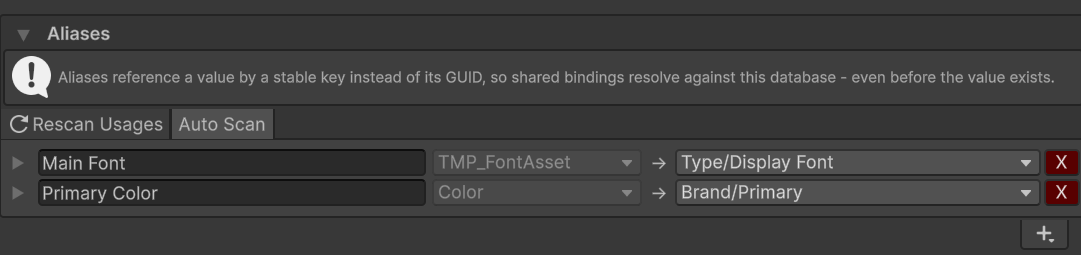
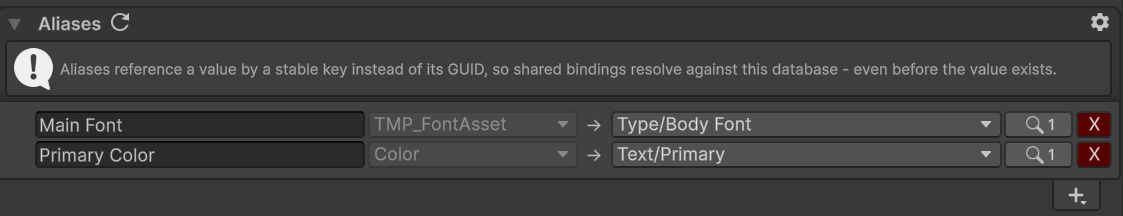
v1.2.3

diff --git a/Documentation/Aliases.md b/Documentation/Aliases.md
@@ -11,6 +11,7 @@ Aliases let a [`ThemeValue<T>`](ScriptingAPI.md#themevalue-and-value-types) refe
 - [Why Aliases](#why-aliases)
 - [Referencing a Value by Key](#referencing-a-value-by-key)
 - [The Aliases Section](#the-aliases-section)
+  - [Usage View Toggle](#usage-view-toggle)
   - [Usage Scanning](#usage-scanning)
   - [Missing Keys](#missing-keys)
   - [Mapping and Unmapped Aliases](#mapping-and-unmapped-aliases)
@@ -44,8 +45,13 @@ Every [`ThemeValue<T>`](ScriptingAPI.md#themevalue-and-value-types) field uses t
 Aliases are managed from the **Aliases** foldout of the [`ThemeDatabase`](ScriptingAPI.md#themedatabase-runtime-api) editor, available from every entry point ([asset inspector](ThemeDatabase.md#editor-entry-points), `Window > derHugo > Themes`, and `Edit > Project Settings > derHugo > Themes`), below **Constant Values** and **Themes**. The section header carries an **issues badge** (`N issues`) whenever there are unresolved entries.
 
 [![][1]][1]
+Each alias row lays out like a [value entry](ThemeDatabase.md#value-usages): the **key**, the **expected type**, a remap arrow, the **target-value** mapping dropdown, a **search-icon usage toggle**, and a delete (`X`) or register (`+`) button. The usage toggle occupies the same column and uses the same appearance and interaction as the value rows.
 
-Each alias row lays out like a [value entry](ThemeDatabase.md#inspector-workflow): an optional **used-by** foldout, the **key**, the **expected type**, a remap arrow, the **target-value** mapping dropdown, and a delete (`X`).
+### Usage View Toggle
+
+Click the **search icon and count** to show or hide the alias's consumer links beneath the row. Counts above 99 display as **`99+`**, with the exact count in the tooltip. When no usages are discovered, the button is disabled and shows only the icon; an open list closes automatically when its last usage disappears. The target-value dropdown chooses which definition the alias maps to independently of the usage toggle.
+
+An alias's count includes references to **that key**. The mapped [value's usage view](ThemeDatabase.md#value-usages) also includes direct references and consumers of any other aliases mapped to the same definition. Remapping an alias updates the affected value counts without another asset scan.
 
 ### Usage Scanning
 
@@ -53,9 +59,12 @@ Each alias row lays out like a [value entry](ThemeDatabase.md#inspector-workflow
 
 - the enabled **Build Settings** scenes and, when the Addressables package is installed, the **Addressable** scenes
 - every currently **open scene** and the current **prefab stage**
+- **Player Settings preloaded assets**
 - and the recursive **prefab / ScriptableObject dependency closure** of all of the above.
 
-The scan is **non-destructive** - closed scenes are opened and closed again without ever saving, so it leaves the project (and your open scenes) exactly as it found them. Expand a row's **used-by** handle to list the consumer sites; a site links to the live object when its scene or prefab is open, otherwise it pings the containing asset. The site label is condensed to the asset name, with the full path on its tooltip.
+The scan is **non-destructive** - closed scenes are opened and closed again without ever saving. Use the row's **search-icon usage toggle** to list its consumers. A link selects and pings the component when its scene or prefab stage is open; otherwise it pings the containing asset. Closed-asset labels use the asset name, while open scenes/prefabs show the object path and component. Hover over a link for the full asset path and field location.
+
+Inherited prefab bindings are reported at their source, with genuine instance overrides recorded separately. The count represents discovered referencing fields, not every runtime prefab instance. The scan also feeds [value usages](ThemeDatabase.md#value-usages) and [Validation](ProjectSettings.md#issues-list), including GUID references and themed floats; the Aliases list shows the key-based subset.
 
 ### Missing Keys
 
@@ -72,7 +81,11 @@ An **unmapped** alias - one with no target, or whose target definition was delet
 
 ### Automatic Rescan
 
-**Auto Scan** keeps the list current automatically when scenes, prefabs, bindings, or the build scene list change, and after each recompile. To stay cheap it only runs while the Aliases list is actually on screen, and it pauses during play mode, compilation, and test runs. Turn it off on very large projects and use **Rescan Usages** on demand instead.
+Open the **settings icon** in the **Aliases** or **Validation** header to configure **Auto Scan Usages** and **Validate Usages Before Build**. The **refresh icon** next to either section title runs **Rescan Usages** on demand; both headers control the same scan.
+
+**Auto Scan Usages** keeps value counts, alias counts, and validation current when scenes, prefabs, bindings, or the build scene list change, and after each recompile. It runs while the database editor or its scan results are being displayed, and pauses during play mode, compilation, and test runs. Disable it on very large projects and refresh on demand instead.
+
+Before a scan has completed, or when changes make results stale, the header warning and usage-button tooltip indicate that a refresh is needed. An icon-only disabled button means no usages were discovered in the current results; it does not establish that the alias is unused in every project asset.
 
 ## Reference States
 
@@ -89,9 +102,9 @@ When a key does not resolve, the binding simply keeps its current value - the re
 
 ## Build Validation
 
-A pre-build check scans the build closure once for keyed references whose alias is **missing** or **unmapped** and logs each one to the Console. In an interactive build it then shows a **Build anyway / Cancel** dialog, so you can fix the issues first or continue deliberately. Unattended / batch builds (CI) log the issues and proceed without prompting.
+When **Validate Usages Before Build** is enabled, a pre-build check reports missing/unmapped aliases, alias and GUID type conflicts, missing definition GUIDs, and required-but-unassigned references. This includes [`ThemedFloat`](ScriptingAPI.md#themedfloat) fields in Themed mode and references inside selected modifier configurations. Custom floats are ignored; empty selectable states that inherit Normal are not treated as missing assignments.
 
-The check only covers **alias** references (missing or unmapped keys); GUID-mode references and unassigned values are out of scope.
+Unresolved usages are logged to the Console as errors. An interactive build offers **Build anyway / Cancel build**; unattended / batch builds (CI) log the issues and proceed without prompting. See [Project Settings - Validate Theme Usages Before Build](ProjectSettings.md#validate-theme-usages-before-build) for the assignment rules and settings.
 
 ## Runtime API
 

diff --git a/Documentation/ThemeDatabase.md b/Documentation/ThemeDatabase.md
@@ -13,6 +13,7 @@ This page documents the [`ThemeDatabase`](ScriptingAPI.md#themedatabase-runtime-
 - [Editor Entry Points](#editor-entry-points)
 - [Inspector Workflow](#inspector-workflow)
 - [Value Definition Workflow](#value-definition-workflow)
+- [Value Usages](#value-usages)
 - [Favorite (Default) Value per Type](#favorite-default-value-per-type)
 - [Constant and Theme-Specific Conversion](#constant-and-theme-specific-conversion)
 - [Theme Workflow](#theme-workflow)
@@ -105,6 +106,7 @@ The editor window is optimized for two common tasks:
 - Use **Constant Values** to maintain shared design tokens that do not vary between themes, such as numeric spacing, fixed durations, asset references, or a default sprite.
 - Use **Themes** to compare and edit every theme-specific implementation of the same definition, such as light/dark colors, theme names, localized labels, state colors, and layout values that should change with the active theme.
 - Use **Active Theme** while authoring a scene to preview the result immediately in bound components.
+- Use the **search-icon usage toggle** on a value or alias row to find and select its consumers without leaving the database editor.
 - Use **Export JSON** when handing a database to another project, reviewing a theme in version control, or backing up a known-good set of definitions before a larger edit.
 
 ## Value Definition Workflow
@@ -139,6 +141,32 @@ The value type controls which bindings can consume the definition:
 - Object references are useful for shared assets, but should point to project or package assets when JSON portability matters. This is an editor feature and will not work for side loading on runtime!
 
 Name definitions by intent rather than by one theme's implementation. For example, prefer `Primary Color`, `Dialog Background`, or `Button Fade Duration` over `Blue`, `Dark Gray`, or `0.2`. Bindings store the definition GUID, so the display name can be refined later without losing references.
+
+## Value Usages
+
+Every constant and theme-specific value row has a compact **search-icon usage toggle**, aligned with the same control in the [Aliases section](Aliases.md#usage-view-toggle). It sits immediately before the delete button; it is separate from the value field's own foldout for larger types.
+
+[![][4]][4]
+
+- **Icon and count** - the number is the count of discovered referencing fields. Counts above 99 display as **`99+`**; hover over the button for the exact count.
+- **Show or hide consumers** - click the toggle to reveal usage links beneath the entry, then click it again to close the list. Opening or closing usages does not change the value field's foldout.
+- **No discovered usages** - the button is disabled and shows only the search icon. The list is hidden automatically, including when its last usage disappears after a refresh.
+
+The count belongs to the **definition**, not an individual theme's stored value, so the same definition shows the same count in each theme. Value usages include direct GUID references and references through aliases mapped to that definition in the inspected database. An alias consumer carries a **`via "key"`** suffix; an alias row's own count includes only references to that key.
+
+[![][5]][5]
+
+Click a usage link to select and ping its component when the containing scene or prefab stage is open. Otherwise, the link pings the containing asset. Hover over a link for its asset path and field location. Inherited prefab bindings are reported at their source; genuine instance overrides are reported separately. Counts describe discovered binding fields, not the number of runtime objects that may use a prefab.
+
+### Scan coverage and freshness
+
+Usage counts share the [usage scan](Aliases.md#usage-scanning) used by aliases and validation. It covers open scenes and the prefab stage, enabled Build Settings scenes, Addressable scenes when available, preloaded assets, and their prefab/ScriptableObject dependencies. It does not search every asset in the project or detect references constructed dynamically in code.
+
+The scan also tracks [`ThemedFloat`](ScriptingAPI.md#themedfloat) fields in **Themed** mode, including binding fade durations and floats inside selected modifier configurations. **Custom** mode does not create a theme reference, even if an older definition GUID remains stored in the field.
+
+Use the **refresh icon** in the **Validation** or **Aliases** header to scan on demand. The settings icon in either header opens **Auto Scan Usages** and **Validate Usages Before Build**. Before the first scan, or when the results are out of date, the header warning and usage-button tooltip explain that a refresh is needed. A disabled usage button alone is not proof that a value is unused throughout the project.
+
+Missing, incompatible, and required-but-unassigned references appear in [Validation](ProjectSettings.md#issues-list). An unassigned reference cannot contribute to a particular value's count, so use Validation to find those fields.
 
 ## Favorite (Default) Value per Type
 
@@ -291,7 +319,7 @@ Conversion order (keyed by value type):
 2. `UnityEngine.Object` values use editor asset paths (sub-assets as `path#ObjectName`) via the object side-list.
 3. Remaining values use Unity-like field serialization (matching `JsonUtility`'s rules).
 
-Built-in converter shapes (examples - see [Sample - JSON Converter References](Sample.md#json-converter-references) for the full list):
+Built-in converter shapes (examples - see [Scripting API - Custom JSON Serialization](ScriptingAPI.md#custom-json-serialization) for the converter list):
 
 - `Color` as HEX strings (`#RRGGBBAA`).
 - `ColorBlock` as `normalColor`, `highlightedColor`, `pressedColor`, `selectedColor`, and `disabledColor` HEX strings plus `colorMultiplier` and `fadeDuration`.
@@ -326,3 +354,5 @@ Related pages:
 [1]: images/ThemeDatabase_Full.png
 [2]: images/ThemeDatabase_ValueTypes_Full.png
 [3]: images/JSON_Serialization_Full.png
+[4]: images/Value_Usages.png
+[5]: images/Value_Uasges_Via_Alias.png

diff --git a/Documentation/ProjectSettings.md b/Documentation/ProjectSettings.md
@@ -74,24 +74,27 @@ More details: [ThemeDatabase - JSON Format and Import/Export](ThemeDatabase.md#j
 
 Directly under the database and JSON actions, the header hosts the shared usage-scan controls (kept here so the lists stay uncluttered):
 
-- **Rescan** (↻) - runs the usage scan once now (feeds both the Aliases list and the Issues list).
-- **Auto Scan** - project setting (`AutoScanUsages`, on by default): rebuild automatically as scenes, prefabs, bindings, or the build scene list change and after each recompile, while a list is on screen.
-- **Validate theme usages before build** (on by default) - the pre-build check below.
+- **Refresh icon** (↻) - runs the shared usage scan once now, updating [value usage counts](ThemeDatabase.md#value-usages), [alias usage counts](Aliases.md#usage-view-toggle), and Validation. The Aliases header has the same refresh action.
+- **Settings icon** - opens the shared options: **Auto Scan Usages** (`AutoScanUsages`, on by default) and **Validate Usages Before Build** (on by default).
+- **Auto Scan Usages** rebuilds automatically as scenes, prefabs, bindings, or the build scene list change and after each recompile, while the database editor or its scan results are displayed. It pauses during play mode, compilation, and test runs.
+
+Each value and alias row uses the same compact **search-icon usage toggle** to show consumer links. Counts above 99 display as `99+`; hover for the exact count. With no discovered usages, the icon-only button is disabled and its list is hidden. The row buttons do not run individual scans; use the header refresh action when the results are stale or no scan has completed.
 
 ### Validate Theme Usages Before Build
 
-The pre-build check scans every build-included asset - scenes, prefabs, ScriptableObjects, and preloaded assets - for [`ThemeValue`](ScriptingAPI.md) references that will not resolve against the active database:
+The pre-build check uses the [shared scan scope](Aliases.md#usage-scanning) to find [`ThemeValue`](ScriptingAPI.md#themevalue-and-value-types) and [`ThemedFloat`](ScriptingAPI.md#themedfloat) references that will not resolve against the active database, including references inside selected modifier configurations:
 
 - **Missing / unmapped aliases** - a keyed reference whose alias does not exist, or exists but maps to nothing.
 - **Alias / value type conflicts** - a keyed or GUID reference that resolves to a definition of a type the field cannot accept.
 - **Missing value references** - a GUID reference whose definition no longer exists.
-- **Unassigned values** - a field left at "None" that is actually read at runtime. This is context-aware for bindings: a non-`Normal` selectable state inherits `Normal`, so only a used block's `Normal` (or a standalone / third-party field) is flagged.
+- **Unassigned values** - a reference left at "None" where an assignment is required. For `ThemeValue` selectable states, non-`Normal` states can inherit `Normal`; `Values.Normal` is required in every binding mode, and `OffValues.Normal` is required in Toggle mode. Standalone references are also checked.
+- **Unassigned themed floats** - `ThemedFloat` in **Themed** mode requires a float reference, including fade durations and modifier factors. An empty selection is reported even when runtime code has a fallback. **Custom** mode is ignored, including any stale stored GUID.
 
 Unresolved usages are always logged to the Console as **errors**. In an interactive build the Themes settings page opens (so you can inspect the Issues list, see below) and a dialog lets you cancel the build or build anyway; an unattended (batch/CI) build only logs and proceeds without failing (a logged error does not fail a headless build). Disable the toggle - temporarily or permanently - for projects whose value types need handling the check would otherwise flag.
 
 ### Issues list
 
-The database inspector (this page, the Themes window, and the asset inspector) shows an **Issues** list at the **top**, fed by the **same scan** as the Aliases list and classified against the active database at draw time (so it updates immediately when you fix an alias or definition - no rescan needed). It is **hidden entirely when there is nothing to show**, and carries a count badge like the Aliases list.
+The **Validation** header at the top of the active database editor (this page, the Themes window, and the asset inspector) shows issue/warning badges or an **OK / Not scanned** status. Expand it when issues are present to view the **Issues** list. The list shares the same scan as value and alias usages, and references are classified against the active database at draw time, so fixing an alias or definition does not require another asset scan. When there are no issues, the list is hidden and the status header remains visible.
 
 - **Errors** (red) come first: one entry per affected component or ScriptableObject asset, reduced to the GameObject/asset name (with the component type), combining all of that host's issues into one row. Clicking a row **pings the live instance** when its scene or prefab stage is loaded, otherwise the **containing asset**.
 - **Warnings** (yellow) follow: an **unmapped alias that no binding uses** is harmless for a build (nothing resolves against it), so it is revealed as a warning rather than an error - in both the Issues list and the Aliases badge - and it never blocks a build.

diff --git a/README.md b/README.md
@@ -39,6 +39,7 @@ The included [Sample](Documentation/Sample.md) has additional dependencies, inst
 - [Built-in bindings](Documentation/ScriptingAPI.md#built-in-bindings) for common UI targets, with extension points for arbitrary custom targets.
 - Full selectable-state hook for fan-out binding: one selectable can drive any number of bindings and update multiple graphics/components per state.
 - Inspector dropdown previews for theme values, including color dots, sprite/texture thumbnails, and value previews/tooltips for generic entries.
+- [Value and alias usage views](Documentation/ThemeDatabase.md#value-usages): easily find where a value or alias is being referenced
 - [Aliases](Documentation/Aliases.md): reference a value by a stable **key** instead of a GUID, so bindings shipped in packages or prefabs resolve against any project's database - with usage scanning, missing/unmapped detection, and a pre-build check.
 - Editor JSON import/export for full database snapshots and Runtime side loading of individual themes.
 
@@ -75,6 +76,8 @@ Definitions can be converted both ways directly in the inspector.
 
 [Aliases](Documentation/Aliases.md) map a stable **key** to a value definition, so a [`ThemeValue<T>`](Documentation/ScriptingAPI.md#themevalue-and-value-types) can reference a value by name instead of its project-local GUID. This lets bindings pre-configured in a package or prefab resolve against a consuming project's own database - even before the value exists. The database's **Aliases** section scans where keys are used, flags missing or unmapped keys, and a pre-build check warns about unresolved references.
 
+Value entries and alias rows share a **search-icon usage toggle**. Click it to reveal consumer links; counts above 99 display as `99+`, and rows with no discovered usages have a disabled icon-only button. Value counts include direct references, mapped aliases, and themed floats such as fade durations and modifier factors. See [Value Usages](Documentation/ThemeDatabase.md#value-usages) for scan scope and navigation.
+
 ## Typical Workflow
 
 1. Create or select the active [`ThemeDatabase`](Documentation/ScriptingAPI.md#themedatabase-runtime-api).
@@ -87,7 +90,7 @@ Definitions can be converted both ways directly in the inspector.
 ## Documentation
 
 - [Getting Started](Documentation/GettingStarted.md): first setup pass and quick tutorial.
-- [ThemeDatabase](Documentation/ThemeDatabase.md): in-depth data model, inspector workflow, JSON format, rename safety, and serialization limitations.
+- [ThemeDatabase](Documentation/ThemeDatabase.md): in-depth data model, inspector workflow, value usage views, JSON format, rename safety, and serialization limitations.
 - [Bind Components](Documentation/Bind.md): the binding components and their inspector - value selection, modifiers, quick-add, targets, and transitions.
 - [Aliases](Documentation/Aliases.md): reference values by a stable key, usage scanning, missing/unmapped reconciliation, and the pre-build check.
 - [Project Settings](Documentation/ProjectSettings.md): project-wide activation and settings behavior.

diff --git a/Documentation/ScriptingAPI.md b/Documentation/ScriptingAPI.md
@@ -159,6 +159,7 @@ Editor behavior:
 
 - In `Custom` mode, the inspector edits the direct value.
 - In `Themed` mode, the inspector shows the selected `float` definition and a read-only preview of the currently resolved theme value.
+- Themed references are included in the definition's [usage view](ThemeDatabase.md#value-usages) and [usage validation](ProjectSettings.md#validate-theme-usages-before-build), including fields inside selected modifier configurations. Empty, missing, or wrong-type references are reported; runtime fallback behavior does not suppress an empty Themed selection. Custom-mode floats are not theme usages.
 
 ## Value Modifiers
 
@@ -274,10 +275,31 @@ For the ready-made uGUI wrappers and how to convert existing selectables to them
 Namespace: `derHugo.Themes`
 
 - `ThemeSelector`: serializable GUID wrapper with `TryApply()`.
+
+   ```csharp
+   [SerializeField] private ThemeSelector _theme;
+  
+   ...
+  
+   //either simply (internally does the same as below)
+   _theme.TryApply();
+  
+   // or more explicitely
+   if(ThemeDatabase.ActiveDatabse != null)
+   {
+       ThemeDatabase.ActiveDatabase.SetActiveTheme(_theme.ThemeGuid);
+   }
+   ```
+
 - `ThemeSetter`: Uses an exposed `ThemeSelector` and applies the selected theme on enable (gated by `Execute In Edit Mode` / `Apply On Enabled`) or by explicit `Apply()` call.
+
+   [![][1]][1]
+
+[1]:images/ThemeSetter.png
+
 - `ThemeDropdown`: binds a `TMP_Dropdown` to available themes and active theme selection. Requires the optional [uGUI integration](uGUI.md#theme-switching-themedropdown) (uGUI + TextMeshPro)
 
-![ThemeSetter inspector](images/sample/ThemeSetter.png)
+
 
 ## Value Previews
 
@@ -476,7 +498,7 @@ Built-in converters cover:
 - `Vector2`/`Vector3`/`Vector4` and `Vector2Int`/`Vector3Int` as `{x, y, …}`
 - `Quaternion` as Euler-angle objects, `Rect`, `Bounds`, `BoundsInt`, `LayerMask`, and `Gradient`
 
-See [Sample - JSON Converter References](Sample.md#json-converter-references) for the complete built-in converter list and their exact shapes.
+See [Custom JSON Serialization](#custom-json-serialization) for the built-in converter list and JSON field shapes.
 
 Everything else uses Unity-like field serialization (public and `[SerializeField]` fields, matching `JsonUtility`'s rules). This keeps JSON support aligned with what Unity can serialize in the Inspector.
 

diff --git a/Documentation/Bind.md b/Documentation/Bind.md
@@ -74,6 +74,8 @@ The value type is fixed by the binding (`TValue`), so the selector always knows 
 
 Color values expose the same selector with an inline color preview, so state rows can be scanned without opening the database. The optional modifier row below each value lets the binding locally adjust the resolved value without creating another database definition.
 
+To find every discovered consumer of the selected definition, open the database and click that value row's **search-icon usage toggle**. An alias row has the same control for consumers of its key. Usage links select the component in an open scene/prefab stage or ping the containing asset. See [Value Usages](ThemeDatabase.md#value-usages).
+
 [![][4]][4]
 
 [![][3]][3]
@@ -112,6 +114,8 @@ Leave auto-discovery enabled for the common case where the binding sits beside t
 ## With Animation (Fade Duration)
 
 Bindings whose `SetValueSmooth` provides a transition show a **Fade Duration**, a [`ThemedFloat`](ScriptingAPI.md#themedfloat): it is either a direct value or a themed `float` resolved from the active theme. The resolved duration is clamped to be non-negative; a duration of `0` (or a binding without smooth support) applies instantly.
+
+In **Themed** mode, the fade-duration field is included in the selected float definition's [usage view](ThemeDatabase.md#value-usages) and in [usage validation](ProjectSettings.md#validate-theme-usages-before-build). An empty, missing, or incompatible selection is reported as an issue. Use **Custom** mode with `0` for an intentional instant transition without a theme reference. The same tracking applies to themed float factors inside selected value modifiers; Custom floats are ignored.
 
 [![][7]][7]
 

diff --git a/CHANGELOG.md b/CHANGELOG.md
@@ -1,3 +1,12 @@
+### 1.2.3
+
+- Fixes bugs in type picker search
+  - now includes types from `System`
+  - filters out non-serializable types
+- Includes ThemedFloat usages in issues scan
+- Reveals usages of values in ThemeDatabase inspector
+- Fixes handling of missing UnityEngine.Object references in readonly database
+
 ### 1.2.2
 
 - Prevents BindBoolToGameObjectActivate from self deactivation and getting stuck in inactive state 
